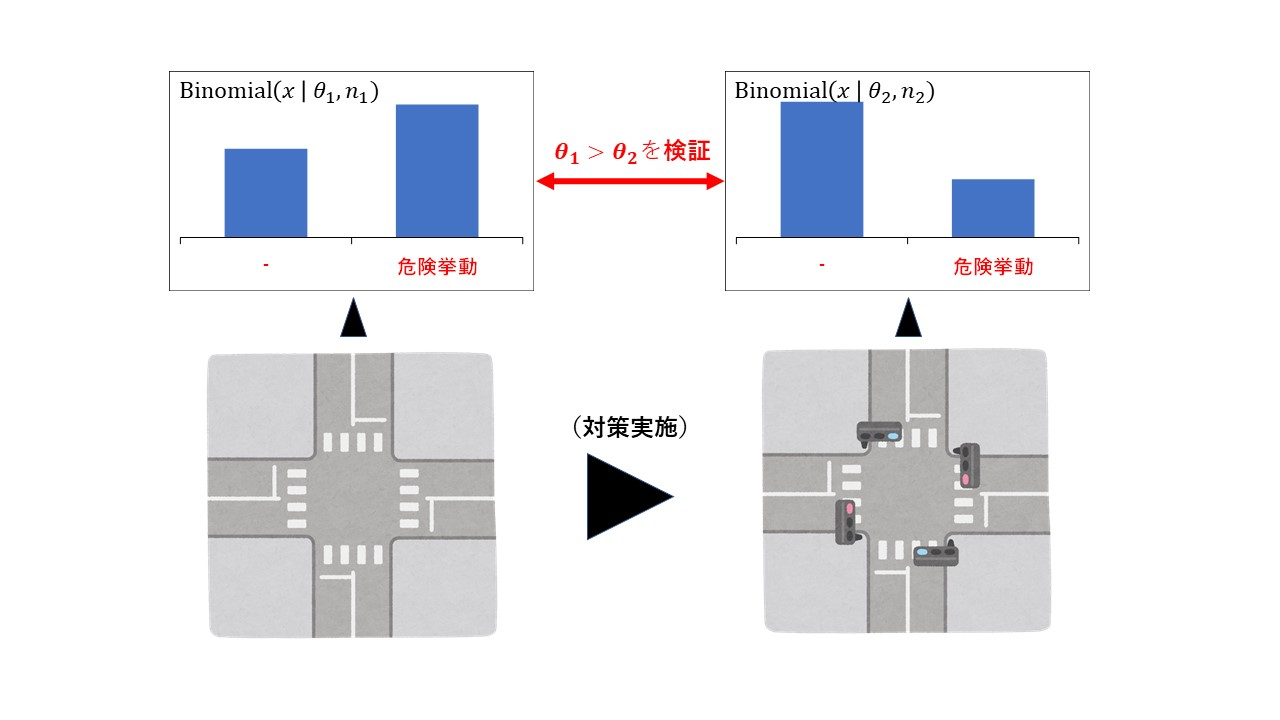
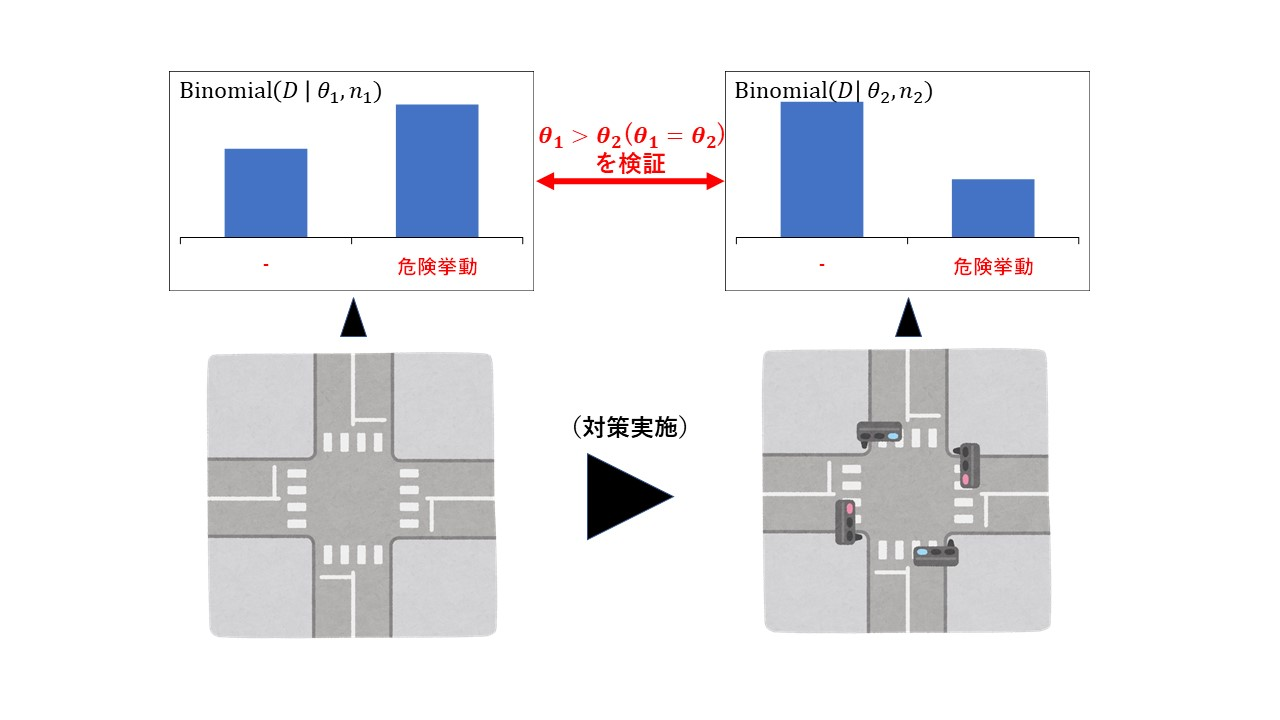
333

Changed region(s): [[0.4062, 0.1833, 0.5625, 0.2444], [0.6562, 0.0917, 0.75, 0.1528], [0.2188, 0.0917, 0.3125, 0.1528]]

diff --git a/2021/04/bayesian-hypothesis-testing-1/index.html b/2021/04/bayesian-hypothesis-testing-1/index.html
@@ -88,18 +88,20 @@
             <fieldset style="border: #d9c68c 5px double; padding: 6px; background-color: #ffffff; margin: 0px; color: #333333; border-radius: 10px; box-shadow: 5px 5px 5px #AAAAAA"><legend><strong>◆この記事のテーマ</strong></legend>
 <p>ベイズファクターを使って比率の差を検定する方法を実践します。
 この手法は、例えば下図のようなシーンに適用できます。下図では異なる交差点の危険挙動発生割合を比較しています。
-<img src="/r/bayesian-hypothesis-testing-1/picture_twosample.JPG" alt="uni"></p>
-<p>※この例では対応のない（two-sampe）グループ同士の比較となっています。対応のある（one-sample）グループ同士の検定のためには本記事で紹介するモデルとは異なるモデルを組む必要があります。</p>
+<img src="/r/bayesian-hypothesis-testing-1/picture_twosample.JPG" alt=""></p>
+<p>交通安全対策実施前後の危険挙動発生割合の変化を判定したいときにも同じ方法論が活用できます。
+<img src="/r/bayesian-hypothesis-testing-1/picture_onesample.JPG" alt=""></p>
+<p>※一つ目の例は対応のない（two-sampe）グループ間の検定、二つ目の例は対応のある（one-sample）グループ間の検定ですが、どちらの検定も一つのモデルで包括して説明されます。</p>
 
 </fieldset>
 <h1 id="モデル">モデル</h1>
-<p><a href="https://www.sciencedirect.com/science/article/abs/pii/S0010028509000826">参考文献</a>に掲載されたグラフィカルモデルを拝借して以下に示します。<br>
+<p><a href="https://www.sciencedirect.com/science/article/abs/pii/S0010028509000826">参考文献</a>に掲載されたグラフィカルモデルを拝借して以下に示します。またここでは、一つ目の例の対応の無い交差点間の危険挙動割合の比較に着目して考えます。 <br>
 <br>
 <figure class="left"><a href="/r/bayesian-hypothesis-testing-1/graphicalmodel.png">
     <img src="/r/bayesian-hypothesis-testing-1/graphicalmodel.png" width="630" height="540"/> </a>
 </figure>
 </p>
-<p>ここで、$n_1$、$n_2$はそれぞれ交差点1、交差点2における車両毎の危険挙動に関するデータ（0=「危険挙動無し」 OR 1「危険挙動あり」）の標本数、$s_1$、$s_2$はそれぞれ交差点1、交差点2において危険挙動をした車両の台数です。交差点ごとに、独立の二項分布に従い危険挙動をした車両が観測されたと仮定し、発生確率を$\theta_1$、$\theta_2$とおきモデルモデル化します。<br>
+<p>ここで、$n_1$、$n_2$はそれぞれ交差点1、交差点2における車両毎の危険挙動に関するデータ（0=「危険挙動無し」 OR 1「危険挙動あり」）の標本数、$s_1$、$s_2$はそれぞれ交差点1、交差点2において危険挙動をした車両の台数です。交差点ごとに、独立の二項分布に従い危険挙動をした車両が観測されたと仮定し、発生確率を$\theta_1$、$\theta_2$とおきモデル化します。<br>
 <br>
 <fieldset style="border: #000000 1px solid; padding: 4px; background-color: #EEFFFF; margin: 0px; color: #333333; border-radius: 10px"><legend><strong>比率の差の検定モデル</strong></legend>
  
@@ -138,6 +140,13 @@ H_2:\delta \geq 0
 $$
 
 </fieldset></p>
+<p>ところで、ここまでグラフィカルモデルは対応のないグループ間の比率の差の検定を考えていましたが、冒頭で言ったように、対応のあるグループについても同じモデルで包括出来てしまいます。ここではその理由について説明しようと思います。</p>
+<p>対応のあるグループ間の比率の差を考えたい場合のグラフィカルモデルは以下のようになります。</p>
+<figure class="left"><a href="/r/bayesian-hypothesis-testing-1/graphicalmodel.png">
+    <img src="/r/bayesian-hypothesis-testing-1/graphicalmodel_onesample.JPG" width="630" height="540"/> </a>
+</figure>
+
+<p>$\theta_1$、$\theta_2$、$\delta$の三角関係が変わっていますが、$\theta_1$と$\theta_2$まわりの尤度計算は対応の無い場合と同じです。さらに$\theta_1$、$\delta$に図示の無情報事前分布を設定してやると、$\theta_2$の事前分布は$\mathrm{Uniform}(0,1)$と、対応の無い場合と同じ事前分布になってしまいます。つまり、$\theta_1$、$\theta_2$の尤度関数と事前分布が対応の場合と同じになってしまうのです。$\delta$は$\theta_2-\theta_1$と、二つの確率変数の差の分布から求まりますから、$\delta$の事後分布は対応の無い場合の事後分布の$y$軸反転になります。よって、比率の差の検定においてはモデル上、対応の有無を問わず一つのモデルで説明出来てしまうのです。（以上、色々考えた上での私見なんですが、どうなんでしょう？）</p>
 <h1 id="ベイズファクターを解析的に求める">ベイズファクターを解析的に求める</h1>
 <p>設定した仮説から分かる通り、本検定はネストされたモデル間の比較を行うので、<a href="https://rmorita-stat.github.io/2021/04/savage-dickey-method/">以前の記事</a>で紹介したSavage-Dickey法を使えばよいと分かります。Savage-Dickey法は、$H_1$に対応するモデルにおける事前分布と事後分布を一点比較をすればベイズファクターを算出できると主張しています。今回の事例では比較する点は$\delta=0$です。つまり</p>
 <p>$$
